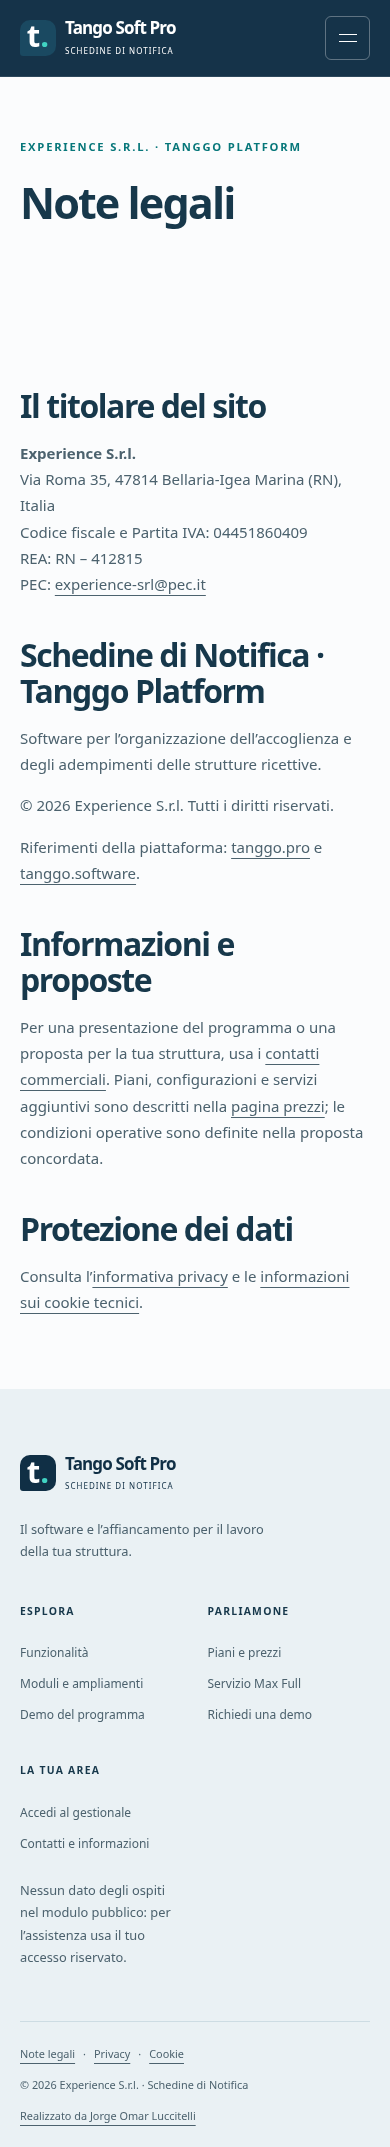
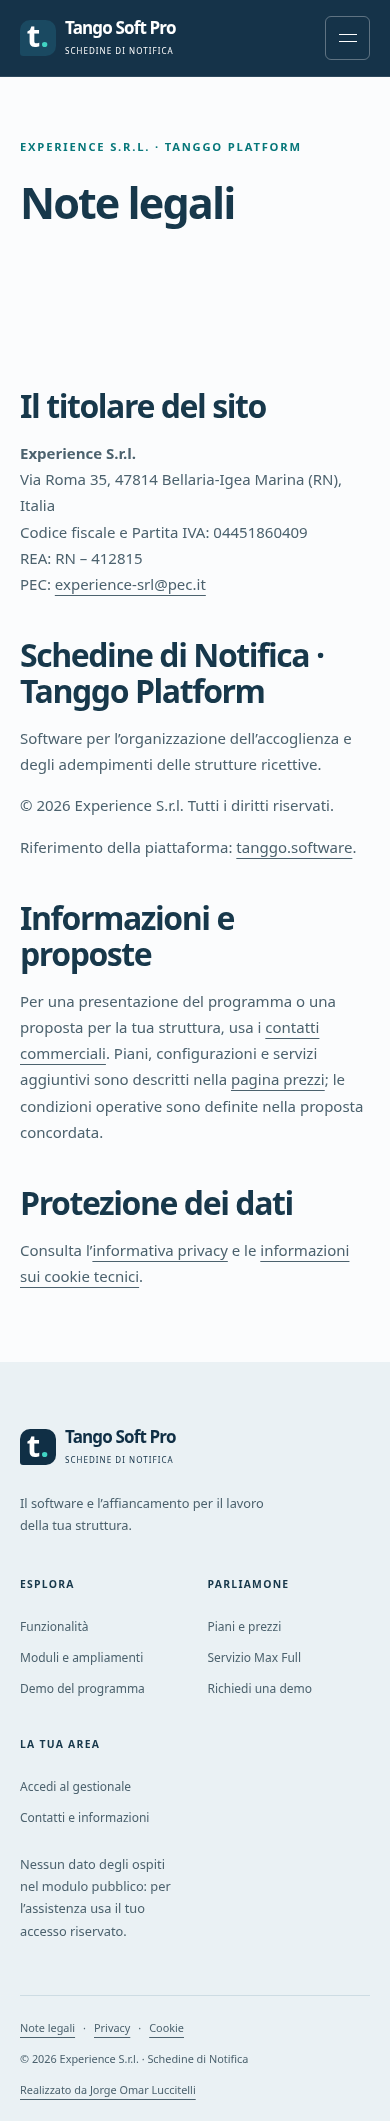
Registra la verifica dei collegamenti e la qualifica finale R17

diff --git a/docs/COMPLETAMENTO-LEGALE-SITO-2026-10-25.md b/docs/COMPLETAMENTO-LEGALE-SITO-2026-10-25.md
@@ -1,6 +1,6 @@
 # Completamento legale e protezioni del sito — 25 ottobre 2026
 
-**QUALIFICA R16 PASS; nuovo rilascio da eseguire. BASELINE IN AUDIT invariata.**
+**QUALIFICA R17 PASS; nuovo rilascio da eseguire. BASELINE IN AUDIT invariata.**
 
 Il rilascio4a85dea2 è concluso con S0 144,710s, RUN253,001s, zeroDDL; QA sei pagine×1440/768/390, tre richieste/attività sintetiche rimosse e HMAC66 conforme. Monitor server918,765s eMac920,509s PASS, zero nuovi errori Laravel/FPM. [Ricevuta separata](evidenze/sito-integrale-2026-10-25/rilascio-4a85dea2.json).
 
@@ -18,3 +18,8 @@ Conservati su Mac401file diagnostici propri R1–R14 con confronto SHA e metadat
 ## Revisione PR26 e qualifica R16
 
 La revisione propria e il bot sul47cf2bfe hanno rilevato lo stessoP2: dopo il primo invio il reset svuotava anche il nuovo tokenCSRF. Escluso soltanto _token dal reset in entrambe le copieJS; nuova prova esegue due richieste distinte senza ricarica, verifica duelead e conserva il token dopo ciascun reset. R16 sulf873ed52:196PHP/2218asserzioni e20browserPASS, nove pagine×1440/768/390,23override/buildGEO/4408digest. R15 resta conservata separatamente e superata quanto a candidato. Nuovo rilascio ancora da eseguire.
+
+
+## Verifica finale dei collegamenti e R17
+
+Il dominio tanggo.pro e la variante www non risolvono dalMac in due prove. Rimosso il link dalle note legali, mantenendo tanggo.software HTTP200/TLSconforme; anche CV, Garante, FAQcookie e diritti HTTP200. Nessuna modifica DNS. R17 su98a4959f:196PHP/2218asserzioni e20browserPASS, unica differenza applicativa daR16 nel link. Kit5ff5bba3 depositato ma mai avviato in PREPARE/S0/RUN, conservato inattivo. Nuova pubblicazione da eseguire sul successivo commit integrato.

diff --git a/docs/maestro/MAESTRO-SCHEDINE-DI-NOTIFICA.md b/docs/maestro/MAESTRO-SCHEDINE-DI-NOTIFICA.md
@@ -1,5 +1,9 @@
 # MAESTRO — SCHEDINE DI NOTIFICA
 
+## Sito integrale — collegamenti esterni verificati, qualifica finale R17 PASS
+
+Tanggo.pro ewww.tanggo.pro non risolvibili in due verificheMac; rimosso il solo collegamento dalle note legali, tanggo.software ealtri5riferimentiHTTPS200. Nessun DNS modificato. R17 su98a4959f:196PHP/2218asserzioni e20browserPASS, nove pagine×1440/768/390 e43sorgenti conformi; unica differenza applicativa daR16 è il link. [Qualifica corrente](../evidenze/sito-integrale-2026-10-25/verifica.json). KitPR26/5ff5bba3 depositato epreflightPASS ma PREPARE/S0/RUN non avviati, conservato inattivo; nuovo rilascio finale ancora pendente. Produzione4a85dea2 verificata, BASELINE IN AUDIT invariata.
+
 ## Sito integrale — P2 sul reset CSRF corretto, qualifica R16 PASS
 
 PR26 sul47cf2bfe: rilievoP2 sul reset del nuovo tokenCSRF, individuato anche nella revisione propria. Corretto in entrambe le copieJS; nuova prova due richieste distinte senza ricarica, duelead e token invariato dopo ogni reset. R16 sulf873ed52:196PHP/2218asserzioni e20browserPASS, nove pagine×1440/768/390,23override/buildGEO/4408digest. [Qualifica corrente](../evidenze/sito-integrale-2026-10-25/verifica.json), [rapporto](../COMPLETAMENTO-LEGALE-SITO-2026-10-25.md). R15 conservata separatamente; nuovo C5 ancora pendente, produzione4a85dea2 gia verificata. BASELINE IN AUDIT invariata.
